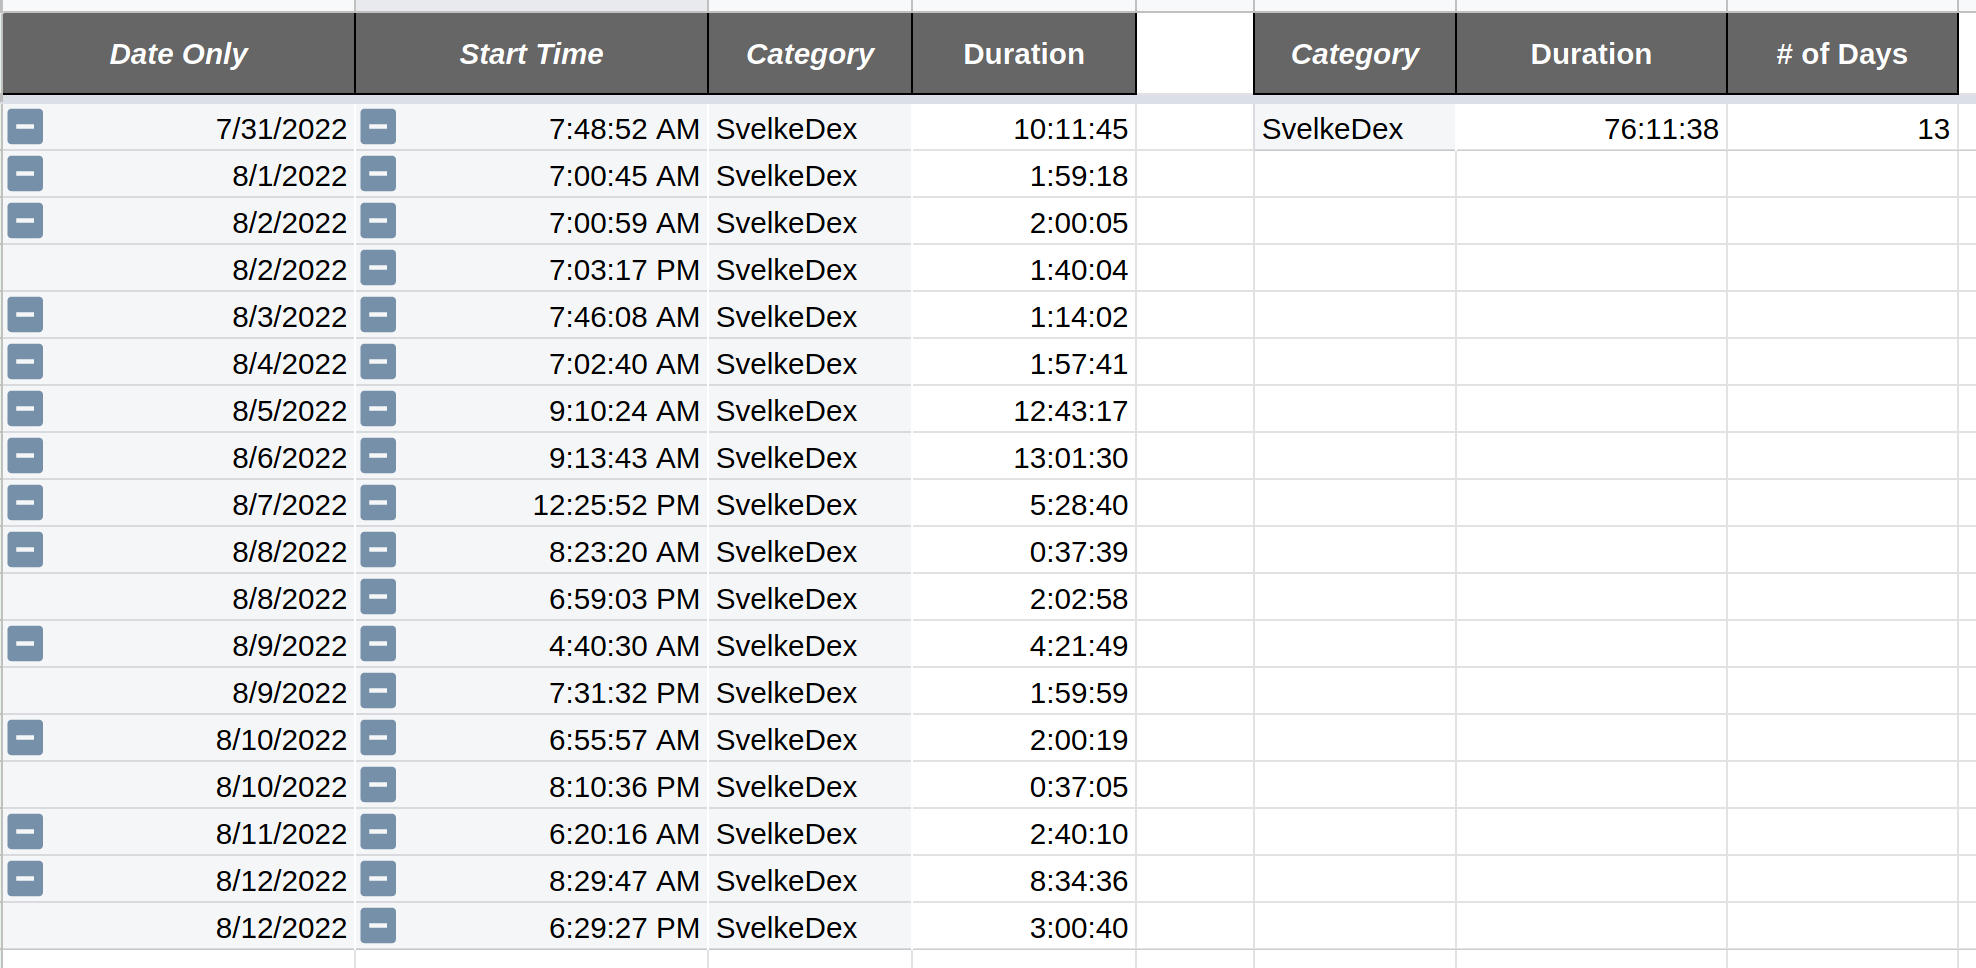
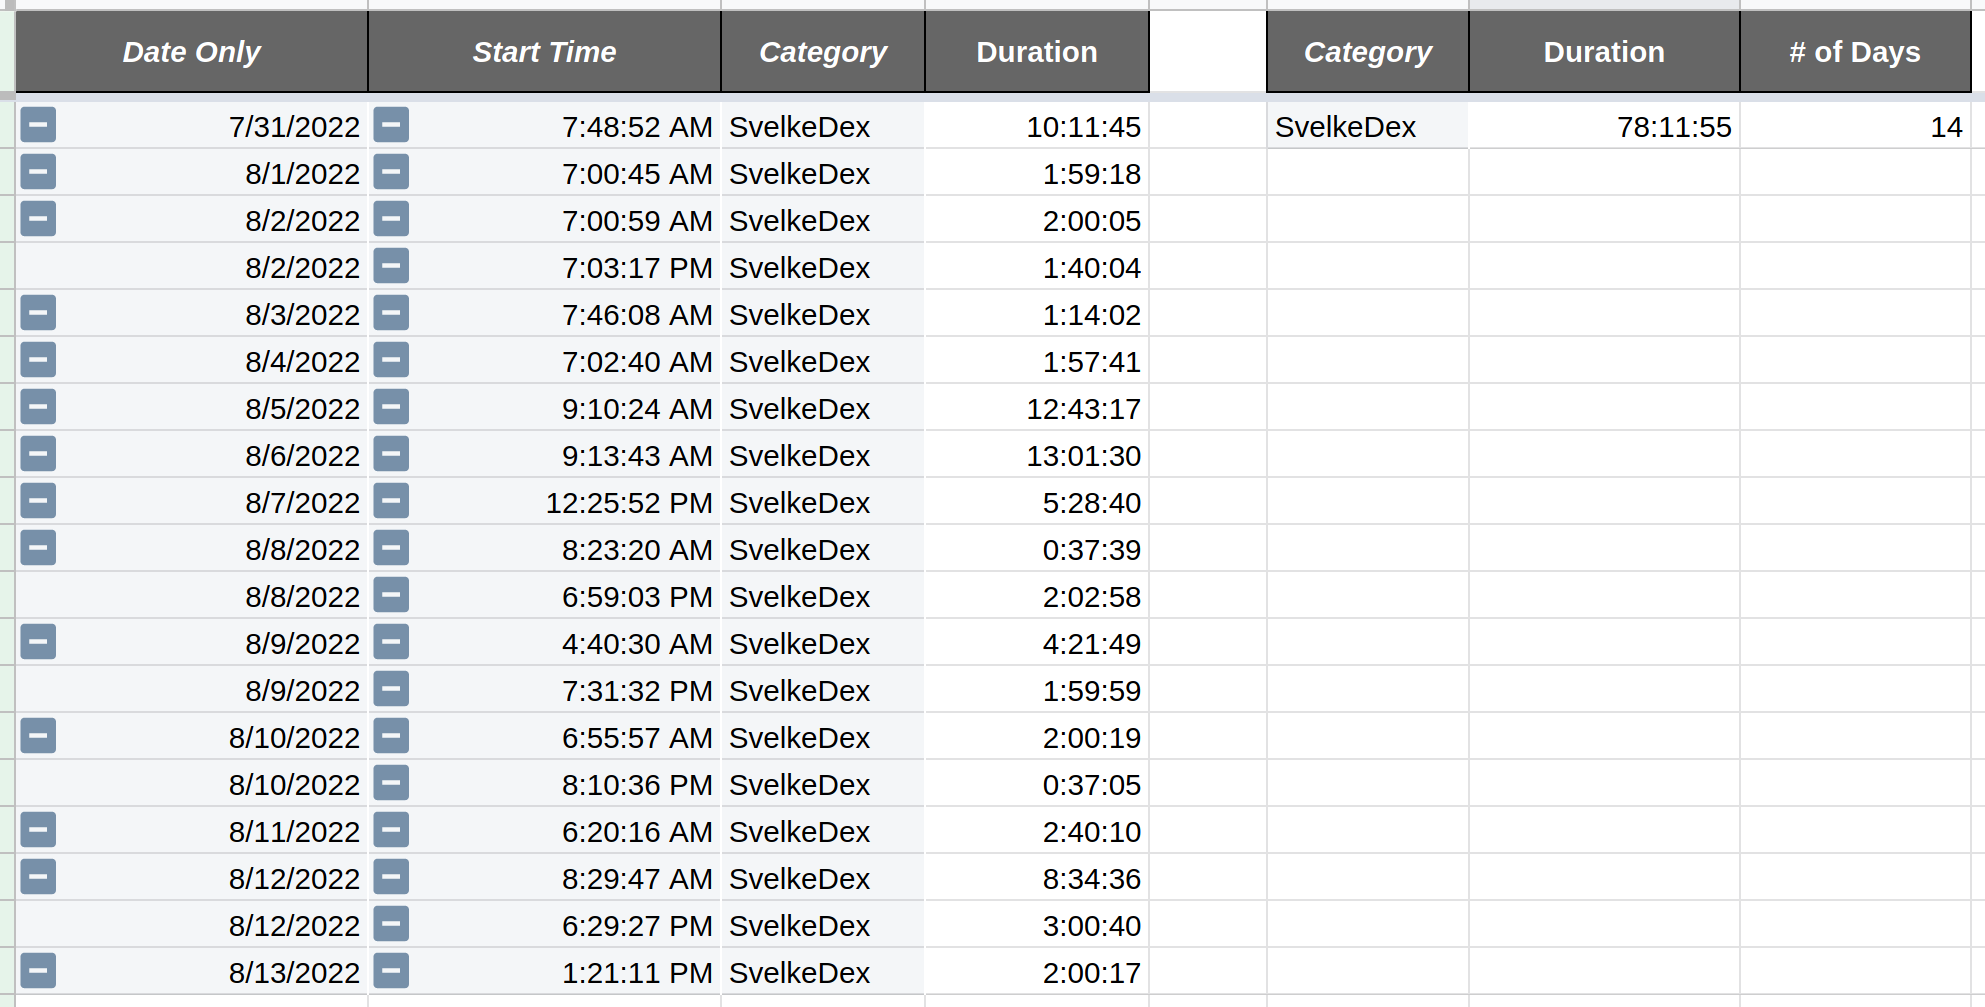
update about page

diff --git a/src/routes/About.svelte b/src/routes/About.svelte
@@ -27,7 +27,8 @@
                 <li>Making this site helped me escape tutorial hell.</li>
                 <li>If you are reading this and are currently in tutorial hell, you can escape too!</li>
                 <img class="rounded-xl max-w-11/12 hover:scale-105 duration-200" src="images/dev_time.png" alt="pic of development time">
-                <li>I spent about 76 hours making Svelkedex and learned a lot on the way</li>
+                <li>I spent about 78 hours making Svelkedex and learned a lot on the way</li>
+                <li>Having spend that time, with what I've learned I think I would be able to rebuild this in less than half that time.</li>
                 <li>
                   If you're interested, feel free to check out the code on <a class="underline hover:text-white duration-200" href="https://github.com/bertcanoiii/SvelkeDex">github!</a>
                 </li>
